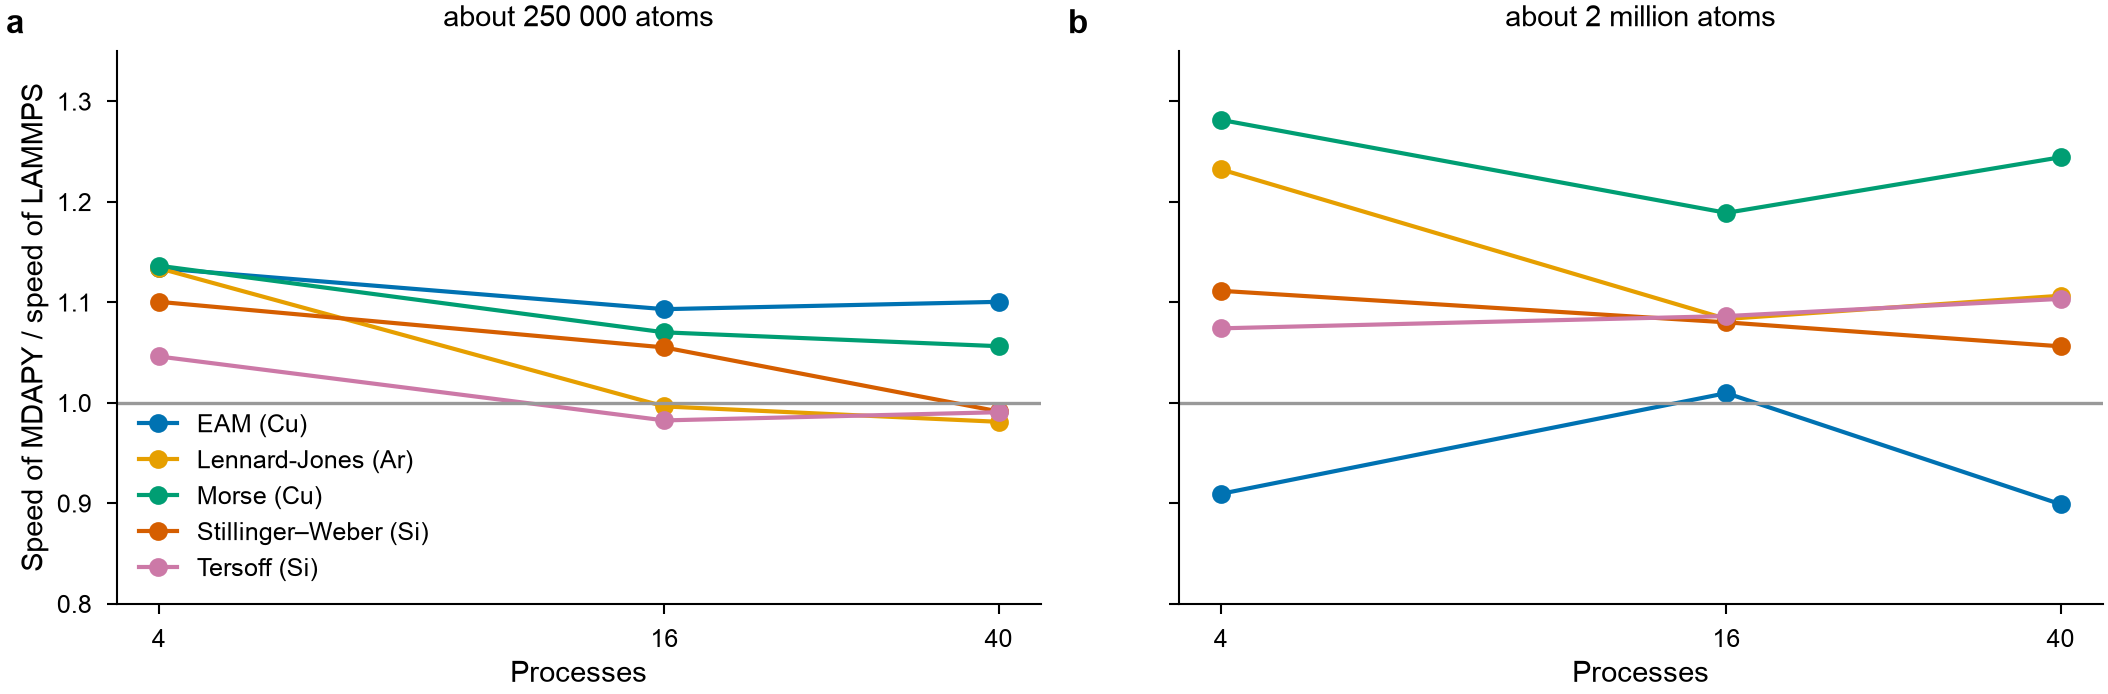
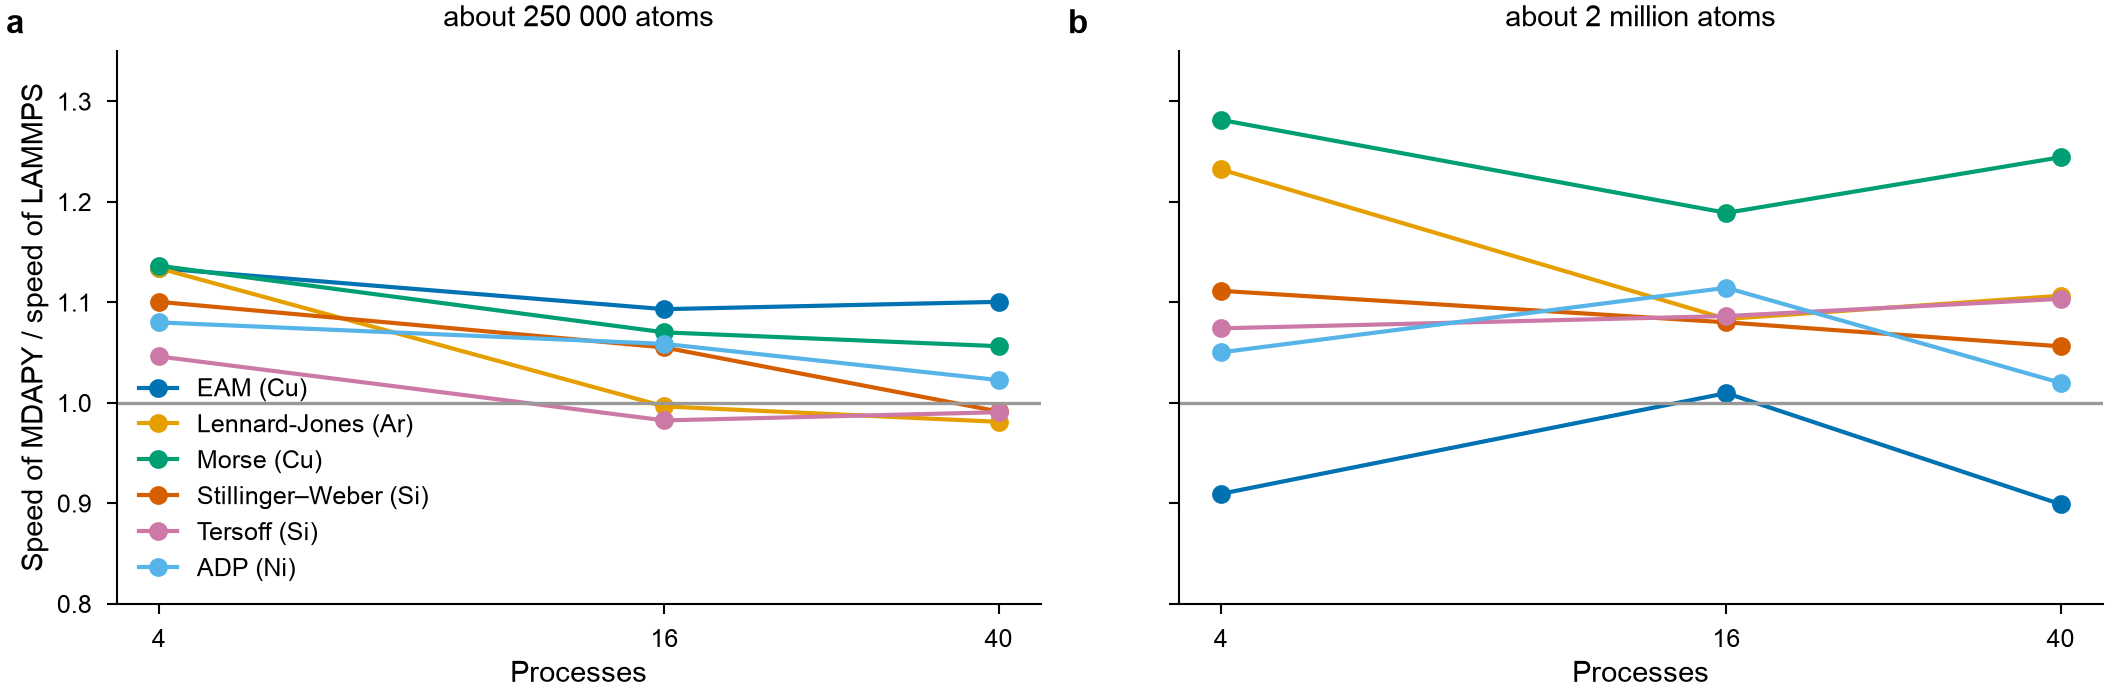
Performance on many processes: nickel with ADP beside the five potentials, at 1.02 to 1.11 times the speed of LAMMPS

diff --git a/docs/performance/mpi.md b/docs/performance/mpi.md
@@ -1,25 +1,26 @@
 # Molecular dynamics on many processes
 
 MDAPY and LAMMPS run the same molecular dynamics at constant energy, split among 4 to 40
-processes of one thread each with MPI, with the five potentials of the
+processes of one thread each with MPI, with six potentials of the
 [GPU benchmarks](gpu.md): copper with the EAM of Zhou et al. and with a Morse potential
-at 600 K, argon with Lennard-Jones at 60 K, and silicon with Stillinger–Weber and
-Tersoff at 1000 K, each at about 250 000 and 2 million atoms: MDAPY's own dynamics
-[on many processes](../user-guide/simulation/processes.md), and LAMMPS through MDAPY's
-[LAMMPS calculator](../user-guide/potentials/lammps.md). Both read the same files: the
-`eam/alloy` file written by `EAM.zhou(["Cu"]).write(path)`, and the `Si.sw` and
-`Si.tersoff` of LAMMPS. Each run takes 50 steps after 20, of 2 fs for copper, 5 fs for
-argon and 1 fs for silicon, and the time of a step is the time of the 50 over 50;
-`benchmarks/processes.py` runs them.
+at 600 K, nickel with ADP at 600 K, argon with Lennard-Jones at 60 K, and silicon with
+Stillinger–Weber and Tersoff at 1000 K, each at about 250 000 and 2 million atoms:
+MDAPY's own dynamics [on many processes](../user-guide/simulation/processes.md), and
+LAMMPS through MDAPY's [LAMMPS calculator](../user-guide/potentials/lammps.md). Both read
+the same files: the `eam/alloy` file written by `EAM.zhou(["Cu"]).write(path)`, and the
+`Ni.adp`, `Si.sw` and `Si.tersoff` of LAMMPS. Each run takes 50 steps after 20, of 2 fs
+for copper and nickel, 5 fs for argon and 1 fs for silicon, and the time of a step is the
+time of the 50 over 50; `benchmarks/processes.py` runs them.
 
 ## Results
 
-A node of the Triton cluster of Aalto University: two Intel Xeon Gold 6230, 40 cores,
-OpenMPI 4.1.6 and GCC 12.3.0, the processes started by `srun --mpi=pmix`. MDAPY 2.3 in
+A node of the Triton cluster of Aalto University: two Intel Xeon Gold 6230, 40 cores
+(two Gold 6248 for ADP), OpenMPI 4.1.6 and GCC 12.3.0, the processes started by
+`srun --mpi=pmix`; MDAPY and LAMMPS ran each case on the same node. MDAPY 2.3 in
 development, built with `pip install .`; LAMMPS stable_30Sep2026 with MPI and the
 MANYBODY package, with its defaults: `newton on`, a skin of 2 Å. MDAPY's skin is 1 Å.
 
-![The speed of MDAPY over that of LAMMPS on 4 to 40 processes, for five potentials](images/mpi.png)
+![The speed of MDAPY over that of LAMMPS on 4 to 40 processes, for six potentials](images/mpi.png)
 
 *The speed of MDAPY over that of LAMMPS, the time of a step of LAMMPS over that of
 MDAPY: above 1 MDAPY is the faster.*
@@ -27,9 +28,9 @@ MDAPY: above 1 MDAPY is the faster.*
 ### What they show
 
 - On 4 to 40 processes MDAPY runs at 0.90 to 1.28 times the speed of LAMMPS: 0.90 to
-  1.13 with EAM, 0.98 to 1.11 with Stillinger–Weber and Tersoff, 0.98 to 1.23 with
-  Lennard-Jones and 1.06 to 1.28 with Morse. Its slowest case is EAM on 2 048 000 atoms,
-  at 0.91 and 0.90 of LAMMPS on 4 and 40 processes.
+  1.13 with EAM, 1.02 to 1.11 with ADP, 0.98 to 1.11 with Stillinger–Weber and Tersoff,
+  0.98 to 1.23 with Lennard-Jones and 1.06 to 1.28 with Morse. Its slowest case is EAM
+  on 2 048 000 atoms, at 0.91 and 0.90 of LAMMPS on 4 and 40 processes.
 - Each process of one thread computes each pair of atoms and each term of three bodies
   once, as LAMMPS does with `newton on`, the pairs across the faces of its brick shared
   half and half with the processes beside it. On one process MDAPY computes each pair
@@ -71,3 +72,9 @@ The time of a step in ms.
 | Tersoff (Si) | 2 097 152 | 4 | 849.3 | 912.3 | 1.07 |
 | Tersoff (Si) | 2 097 152 | 16 | 235.0 | 255.3 | 1.09 |
 | Tersoff (Si) | 2 097 152 | 40 | 120.5 | 133.0 | 1.10 |
+| ADP (Ni) | 256 000 | 4 | 196.3 | 212.1 | 1.08 |
+| ADP (Ni) | 256 000 | 16 | 58.4 | 61.9 | 1.06 |
+| ADP (Ni) | 256 000 | 40 | 30.8 | 31.5 | 1.02 |
+| ADP (Ni) | 2 048 000 | 4 | 1548.3 | 1626.2 | 1.05 |
+| ADP (Ni) | 2 048 000 | 16 | 442.3 | 493.0 | 1.11 |
+| ADP (Ni) | 2 048 000 | 40 | 230.5 | 235.1 | 1.02 |
